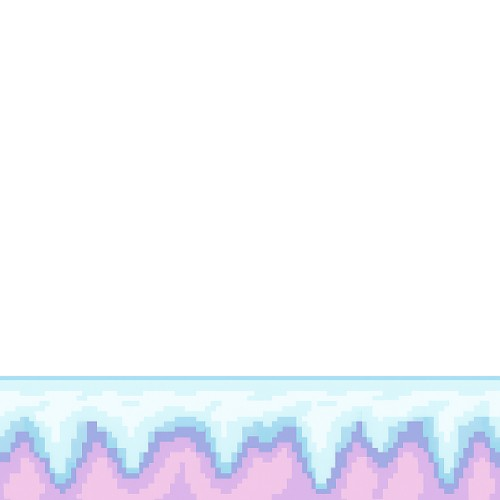
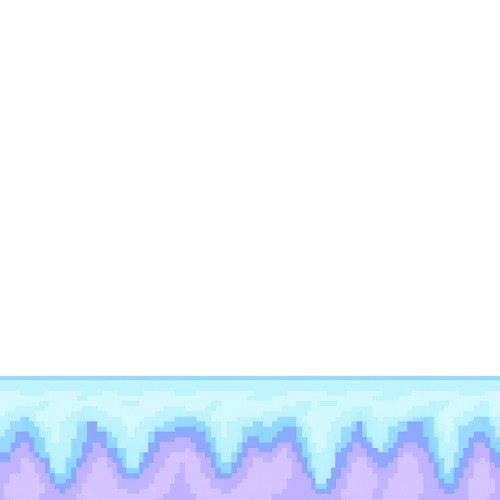
changes to the ground and gap

Changed region(s): [[0.0, 0.75, 1.0, 1.0]]

diff --git a/game.py b/game.py
@@ -53,7 +53,7 @@ class Bird(pygame.sprite.Sprite):
             #up/down motion
             if pygame.mouse.get_pressed()[0] == 1 and self.clicked == False:
                 self.clicked = True
-                self.vel = -10
+                self.vel = -7
             if pygame.mouse.get_pressed()[0] == 0:
                 self.clicked = False
 
